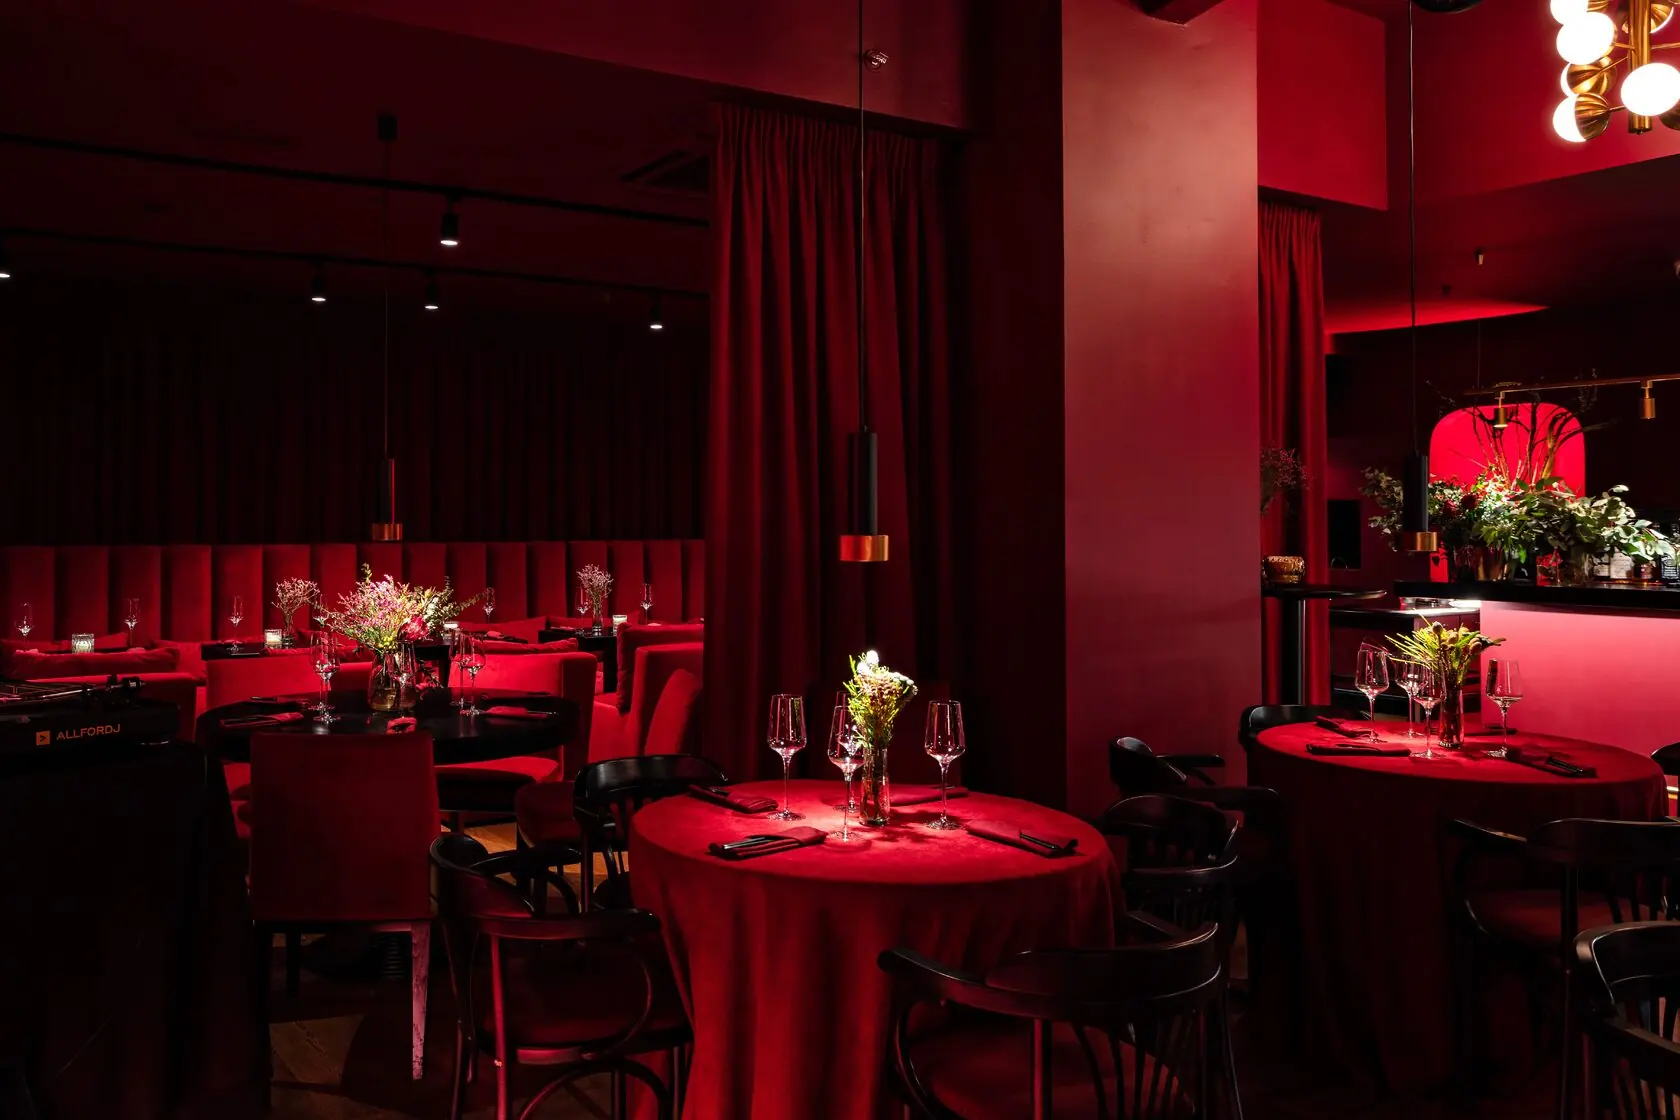
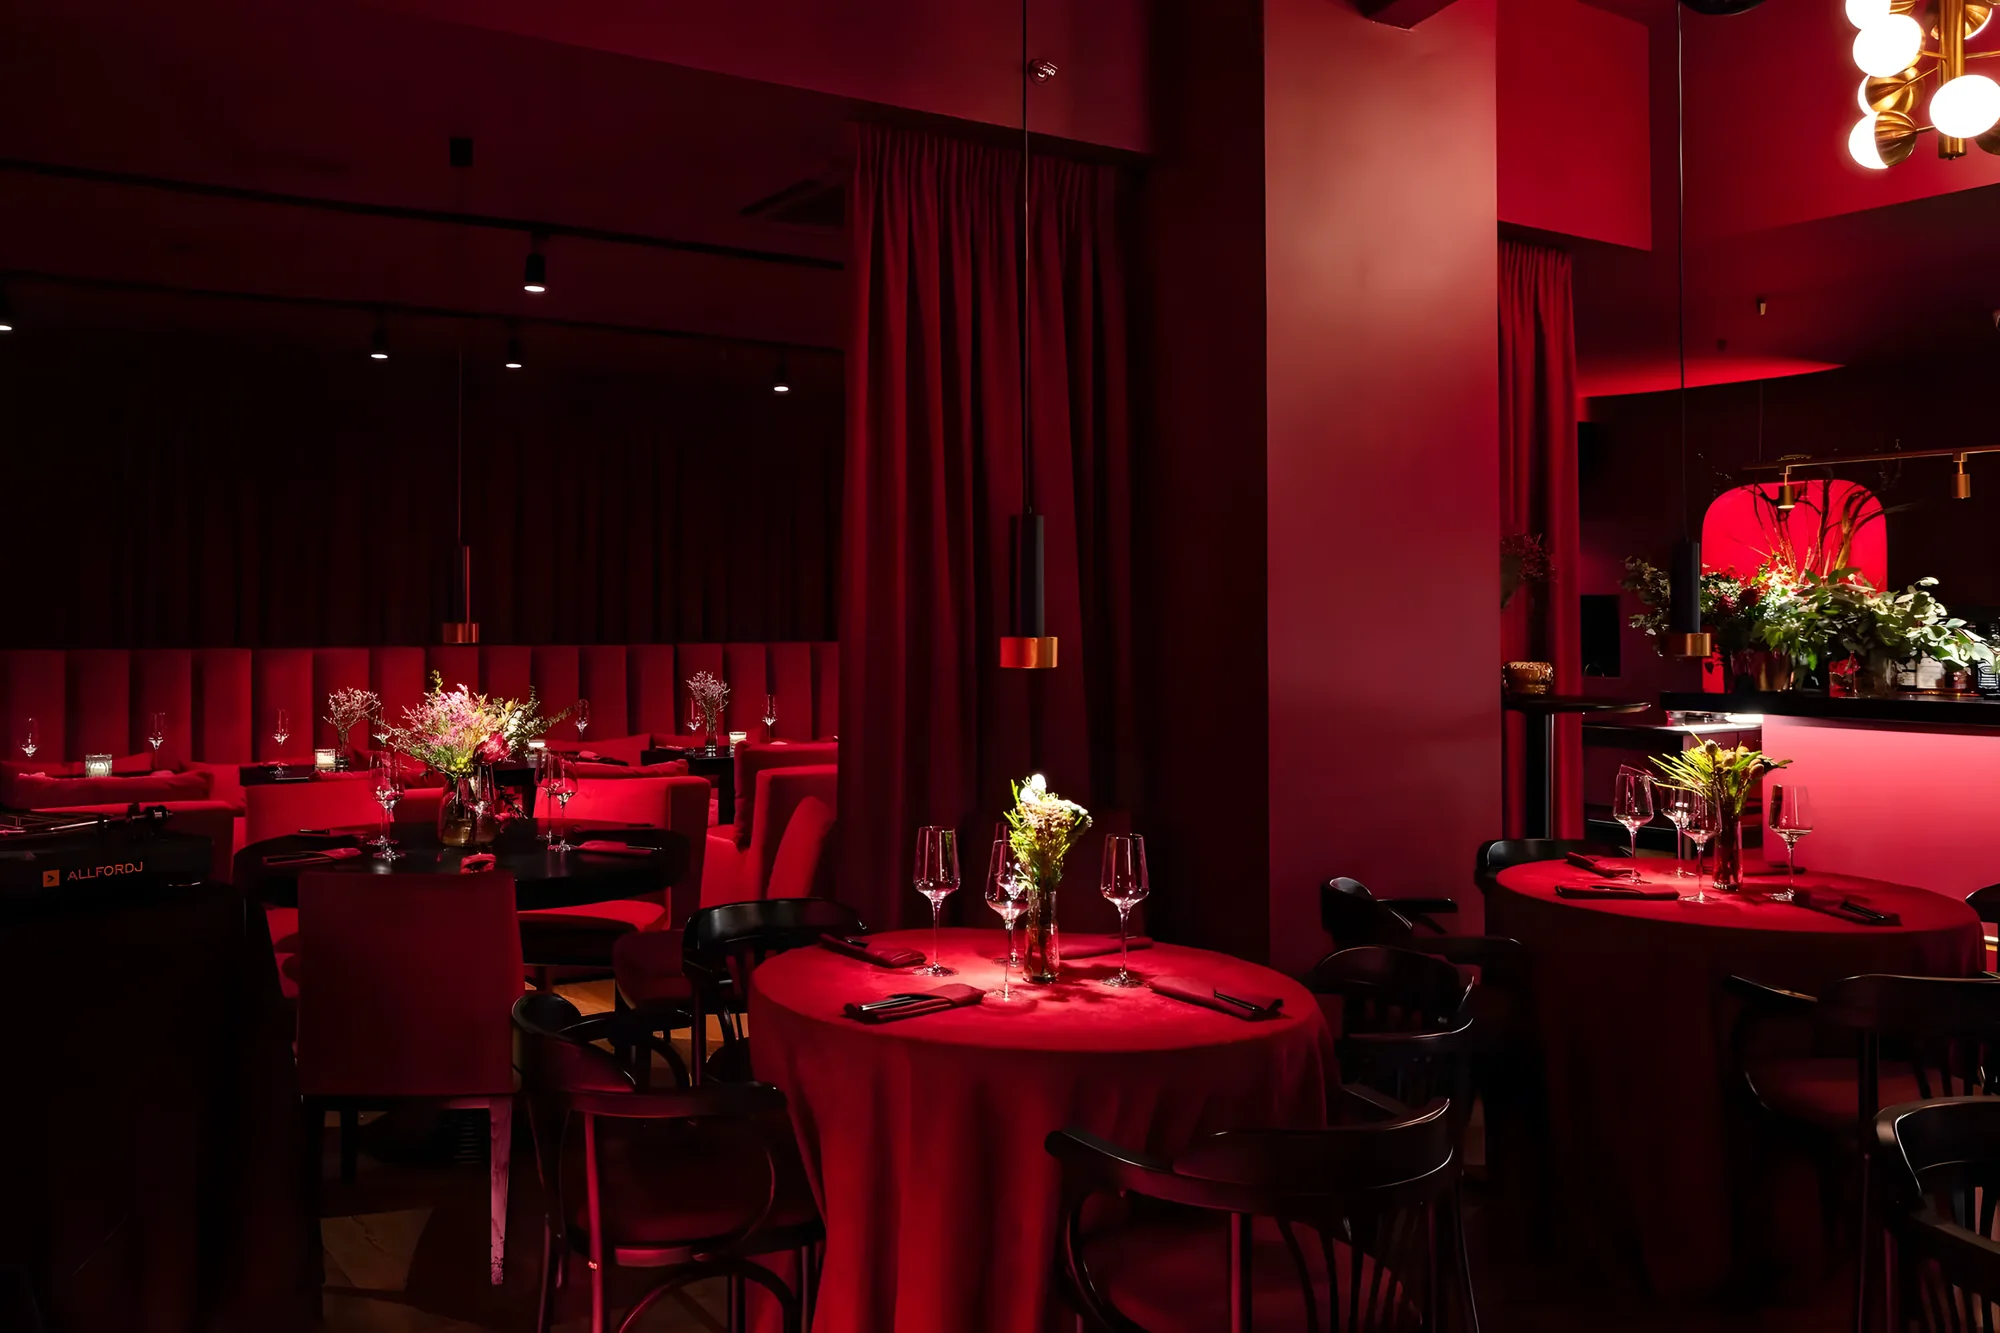
Фото после апскейла (7 шт.), фото красного зала перенесено в галерею концертного зала, непрозрачный фон галереи
Claude-Session: https://claude.ai/code/session_016MB3hApfguHXfBQ2mkXkY6

diff --git a/index.html b/index.html
@@ -193,7 +193,7 @@ h2{font-size:clamp(1.5rem,2.6vw,2.3rem)!important;letter-spacing:.08em!important
 #ymap [class*="ground-pane"]{filter:grayscale(1) sepia(.25) contrast(.95)!important}
 #ymap [class*="copyrights-pane"]{filter:none!important}
 .map{border:0!important}
-.lb{background:rgba(232,220,203,.97)!important;color:#2b1d16}
+.lb{background:#e8dccb!important;color:#2b1d16}
 .lb button{color:#2b1d16;border-color:rgba(43,29,22,.3)}
 @media (max-width:900px){
  .hero.hx{grid-template-columns:1fr;min-height:0}
@@ -264,19 +264,19 @@ if(!im||(im.complete&&im.naturalWidth))finish();else{im.addEventListener('load',
     </div>
     <div class="halls__grid">
       <article class="hall hall--a" data-rv>
-        <img src="stage.webp" alt="Главная сцена Well Well в свете прожекторов" width="1172" height="962" loading="lazy">
+        <img src="stage.webp" alt="Главная сцена Well Well в свете прожекторов" width="2000" height="1642" loading="lazy">
         <div class="hall__txt"><h3>Концертный зал</h3></div>
       </article>
       <article class="hall hall--b" data-rv>
-        <img src="karaoke2.webp" alt="Караоке-рум с красными диванами" width="700" height="860" loading="lazy">
+        <img src="karaoke2.webp" alt="Караоке-рум с красными диванами" width="1615" height="2000" loading="lazy">
         <div class="hall__txt"><h3>Караоке-рум</h3></div>
       </article>
       <article class="hall hall--c" data-rv>
-        <img src="vip.webp" alt="VIP-зал с овальным столом и красными креслами" width="1600" height="553" loading="lazy">
+        <img src="vip.webp" alt="VIP-зал с овальным столом и красными креслами" width="2000" height="673" loading="lazy">
         <div class="hall__txt"><h3>VIP-зал</h3></div>
       </article>
       <article class="hall hall--d" data-rv>
-        <img src="food3.webp" alt="Повар посыпает блюдо на открытой кухне" width="700" height="856" loading="lazy">
+        <img src="food3.webp" alt="Повар посыпает блюдо на открытой кухне" width="1344" height="1656" loading="lazy">
         <div class="hall__txt"><h3>Открытая кухня</h3></div>
       </article>
     </div>
@@ -328,7 +328,7 @@ if(!im||(im.complete&&im.naturalWidth))finish();else{im.addEventListener('load',
       <li><a href="wine.webp"><img src="wine.webp" alt="Гостья с бокалом вина на фоне красной подсветки зала" width="1200" height="1800" loading="lazy"></a></li>
       <li><a href="g-009.webp"><img src="g-009.webp" alt="Цветочная композиция и бокалы с клубникой" width="853" height="1280" loading="lazy"></a></li>
       <li><a href="tables.webp"><img src="tables.webp" alt="Круглые столы с цветочными композициями в зале" width="1400" height="2100" loading="lazy"></a></li>
-      <li class="g-w"><a href="stage-live.webp"><img src="stage-live.webp" alt="Выступление на сцене Well Well, гости в зале" width="1400" height="933" loading="lazy"></a></li>
+      <li class="g-w"><a href="stage-live.webp"><img src="stage-live.webp" alt="Выступление на сцене Well Well, гости в зале" width="2000" height="1333" loading="lazy"></a></li>
       <li><a href="g-029.webp"><img src="g-029.webp" alt="Коктейли в бокалах-креманках на красной стойке" width="853" height="1280" loading="lazy"></a></li>
       <li class="g-w"><a href="g-004.webp"><img src="g-004.webp" alt="Барная стойка с фуршетной линией" width="1280" height="853" loading="lazy"></a></li>
       <li><a href="g-010.webp"><img src="g-010.webp" alt="Шоколадный фонтан" width="853" height="1280" loading="lazy"></a></li>
@@ -492,8 +492,8 @@ if(!im||(im.complete&&im.naturalWidth))finish();else{im.addEventListener('load',
     lb.addEventListener('touchend',function(e){var dx=e.changedTouches[0].clientX-tx;if(Math.abs(dx)>50)lbShow(cur+(dx<0?1:-1))})}
   links.forEach(function(a,i){a.addEventListener('click',function(e){e.preventDefault();lbOpen(gset,i,a)})});
   // Залы: по клику открывается галерея этого зала
-  var HG={'Концертный зал':[['stage.webp','Главная сцена в свете прожекторов'],['stage-live.webp','Выступление на главной сцене'],['g-002.webp','Сцена, фуршетные столы и люстры'],['ph-c-00162.webp','Ведущая на главной сцене'],['ph-c-00158.webp','Гости в концертном зале'],['g-130.webp','Вечер в концертном зале'],['ph-c-00105.webp','Зал под светом прожекторов'],['g-160.webp','Гости у главной сцены'],['hall.webp','Зал с круглыми столами и барной стойкой'],['ph-c-00122.webp','Вокалистка на сцене'],['ph-c-00133.webp','Гостья у подсвеченной арки сцены'],['ph-c-00139.webp','Люстры над залом'],['tables.webp','Круглые столы с цветами'],['ph-c-00201.webp','Гости под люстрой'],['kilian1.webp','Сцена с экраном']],
-    'Караоке-рум':[['karaoke2.webp','Караоке-рум с красными диванами'],['ph-k-00203.webp','Гостья поёт в караоке'],['hero.webp','Караоке-рум: столы и диваны'],['ph-k-00206.webp','Гости за столом в караоке-руме'],['ph-k-00208.webp','Стол с цветами у красных диванов'],['ph-k-00104.webp','Компания в караоке-руме'],['ph-k-00117.webp','Гости за круглым столом'],['ph-k-00211.webp','Гостьи на красном диване'],['ph-k-00140.webp','Красные диваны караоке-рума']],
+  var HG={'Концертный зал':[['stage.webp','Главная сцена в свете прожекторов'],['stage-live.webp','Выступление на главной сцене'],['g-002.webp','Сцена, фуршетные столы и люстры'],['ph-c-00162.webp','Ведущая на главной сцене'],['ph-c-00158.webp','Гости в концертном зале'],['g-130.webp','Вечер в концертном зале'],['ph-c-00105.webp','Зал под светом прожекторов'],['g-160.webp','Гости у главной сцены'],['hall.webp','Зал с круглыми столами и барной стойкой'],['ph-c-00122.webp','Вокалистка на сцене'],['ph-c-00133.webp','Гостья у подсвеченной арки сцены'],['ph-c-00139.webp','Люстры над залом'],['tables.webp','Круглые столы с цветами'],['ph-c-00201.webp','Гости под люстрой'],['kilian1.webp','Сцена с экраном'],['hero.webp','Зал: круглые столы в красных скатертях']],
+    'Караоке-рум':[['karaoke2.webp','Караоке-рум с красными диванами'],['ph-k-00203.webp','Гостья поёт в караоке'],['ph-k-00206.webp','Гости за столом в караоке-руме'],['ph-k-00208.webp','Стол с цветами у красных диванов'],['ph-k-00104.webp','Компания в караоке-руме'],['ph-k-00117.webp','Гости за круглым столом'],['ph-k-00211.webp','Гостьи на красном диване'],['ph-k-00140.webp','Красные диваны караоке-рума']],
     'VIP-зал':[['vip.webp','VIP-зал с овальным столом']],
     'Открытая кухня':[['food3.webp','Повар собирает блюдо'],['g-004.webp','Стойка открытой кухни'],['ph-f-00070.webp','Гости у стойки с закусками'],['ph-f-00069.webp','Гостьи выбирают блюда у стойки'],['ph-f-00204.webp','Закуски на стойке кухни'],['ph-f-00103.webp','Гость у стойки открытой кухни'],['ph-f-00178.webp','Напитки и закуски на стойке'],['ph-f-00186.webp','Гостьи у шоколадного фонтана'],['f-wide.webp','Фуршетная линия'],['g-031.webp','Закуски на блюдах-рыбах'],['f-red.webp','Тарталетки с икрой'],['f-black.webp','Закуски на чёрном блюде'],['f-cheese.webp','Сыр и клубника'],['furshet.webp','Фуршетные этажерки'],['g-010.webp','Шоколадный фонтан']]};
   all('.hall').forEach(function(c){var t=c.querySelector('h3').textContent.trim(),s=HG[t];if(!s)return;s.t=t;c.classList.add('is-link');c.tabIndex=0;c.setAttribute('role','button');c.setAttribute('aria-label',t+': открыть фото');
